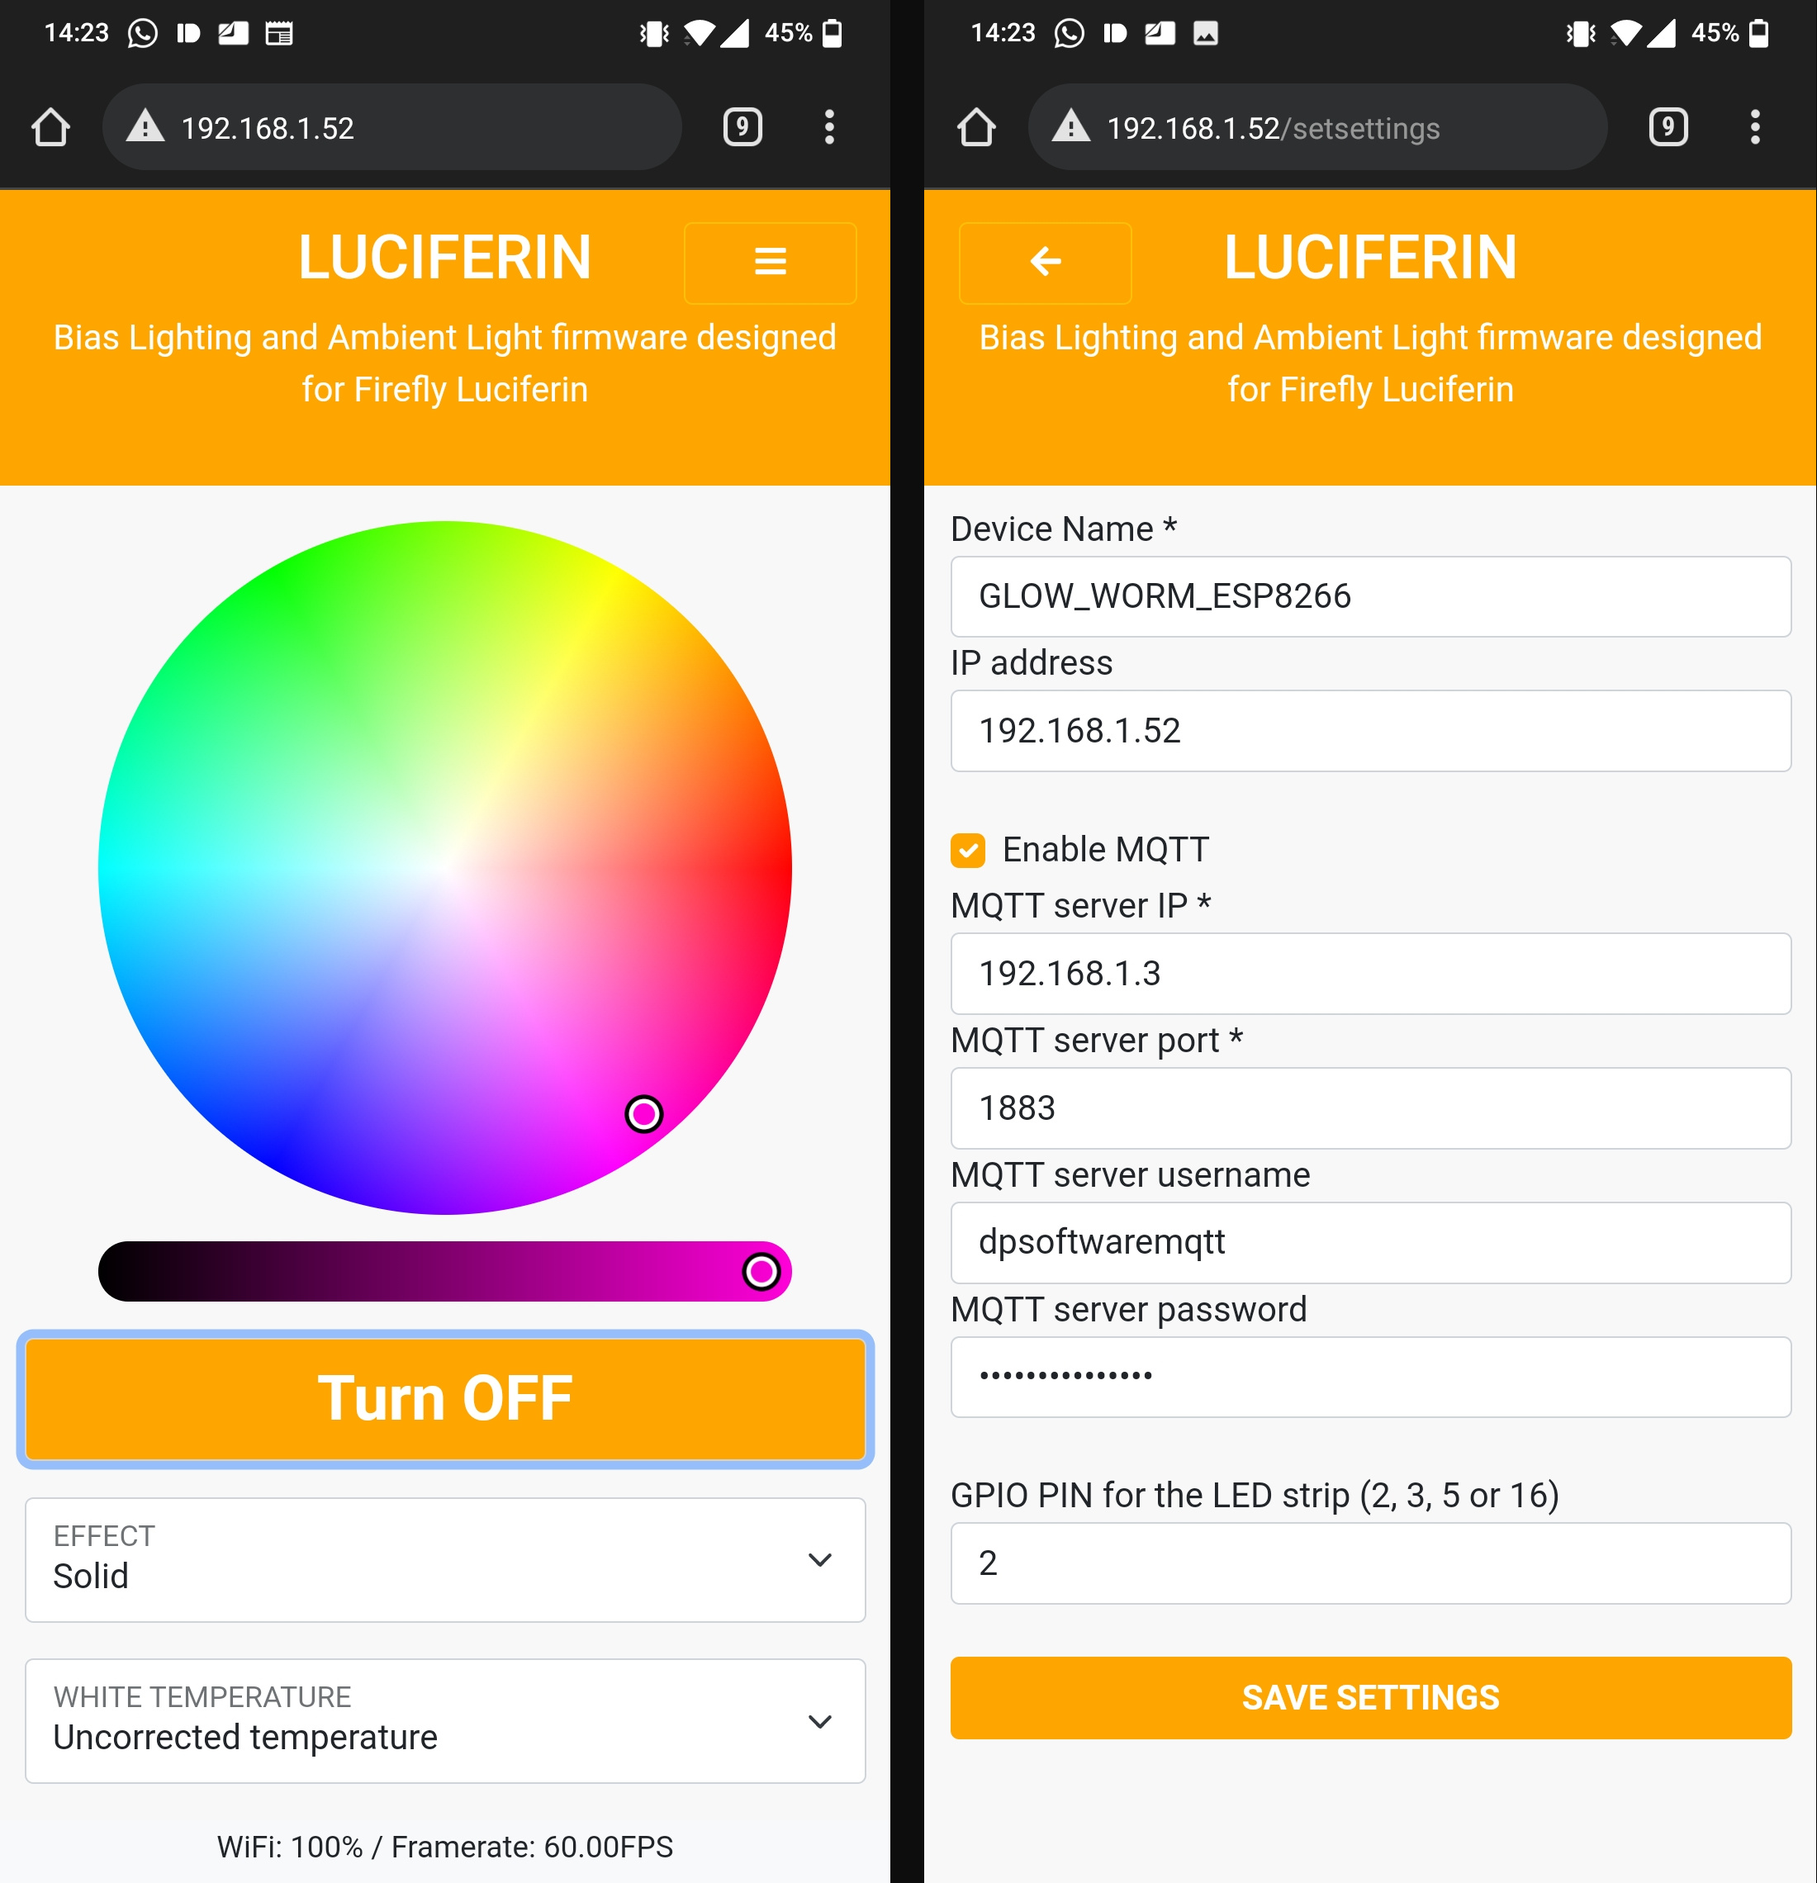
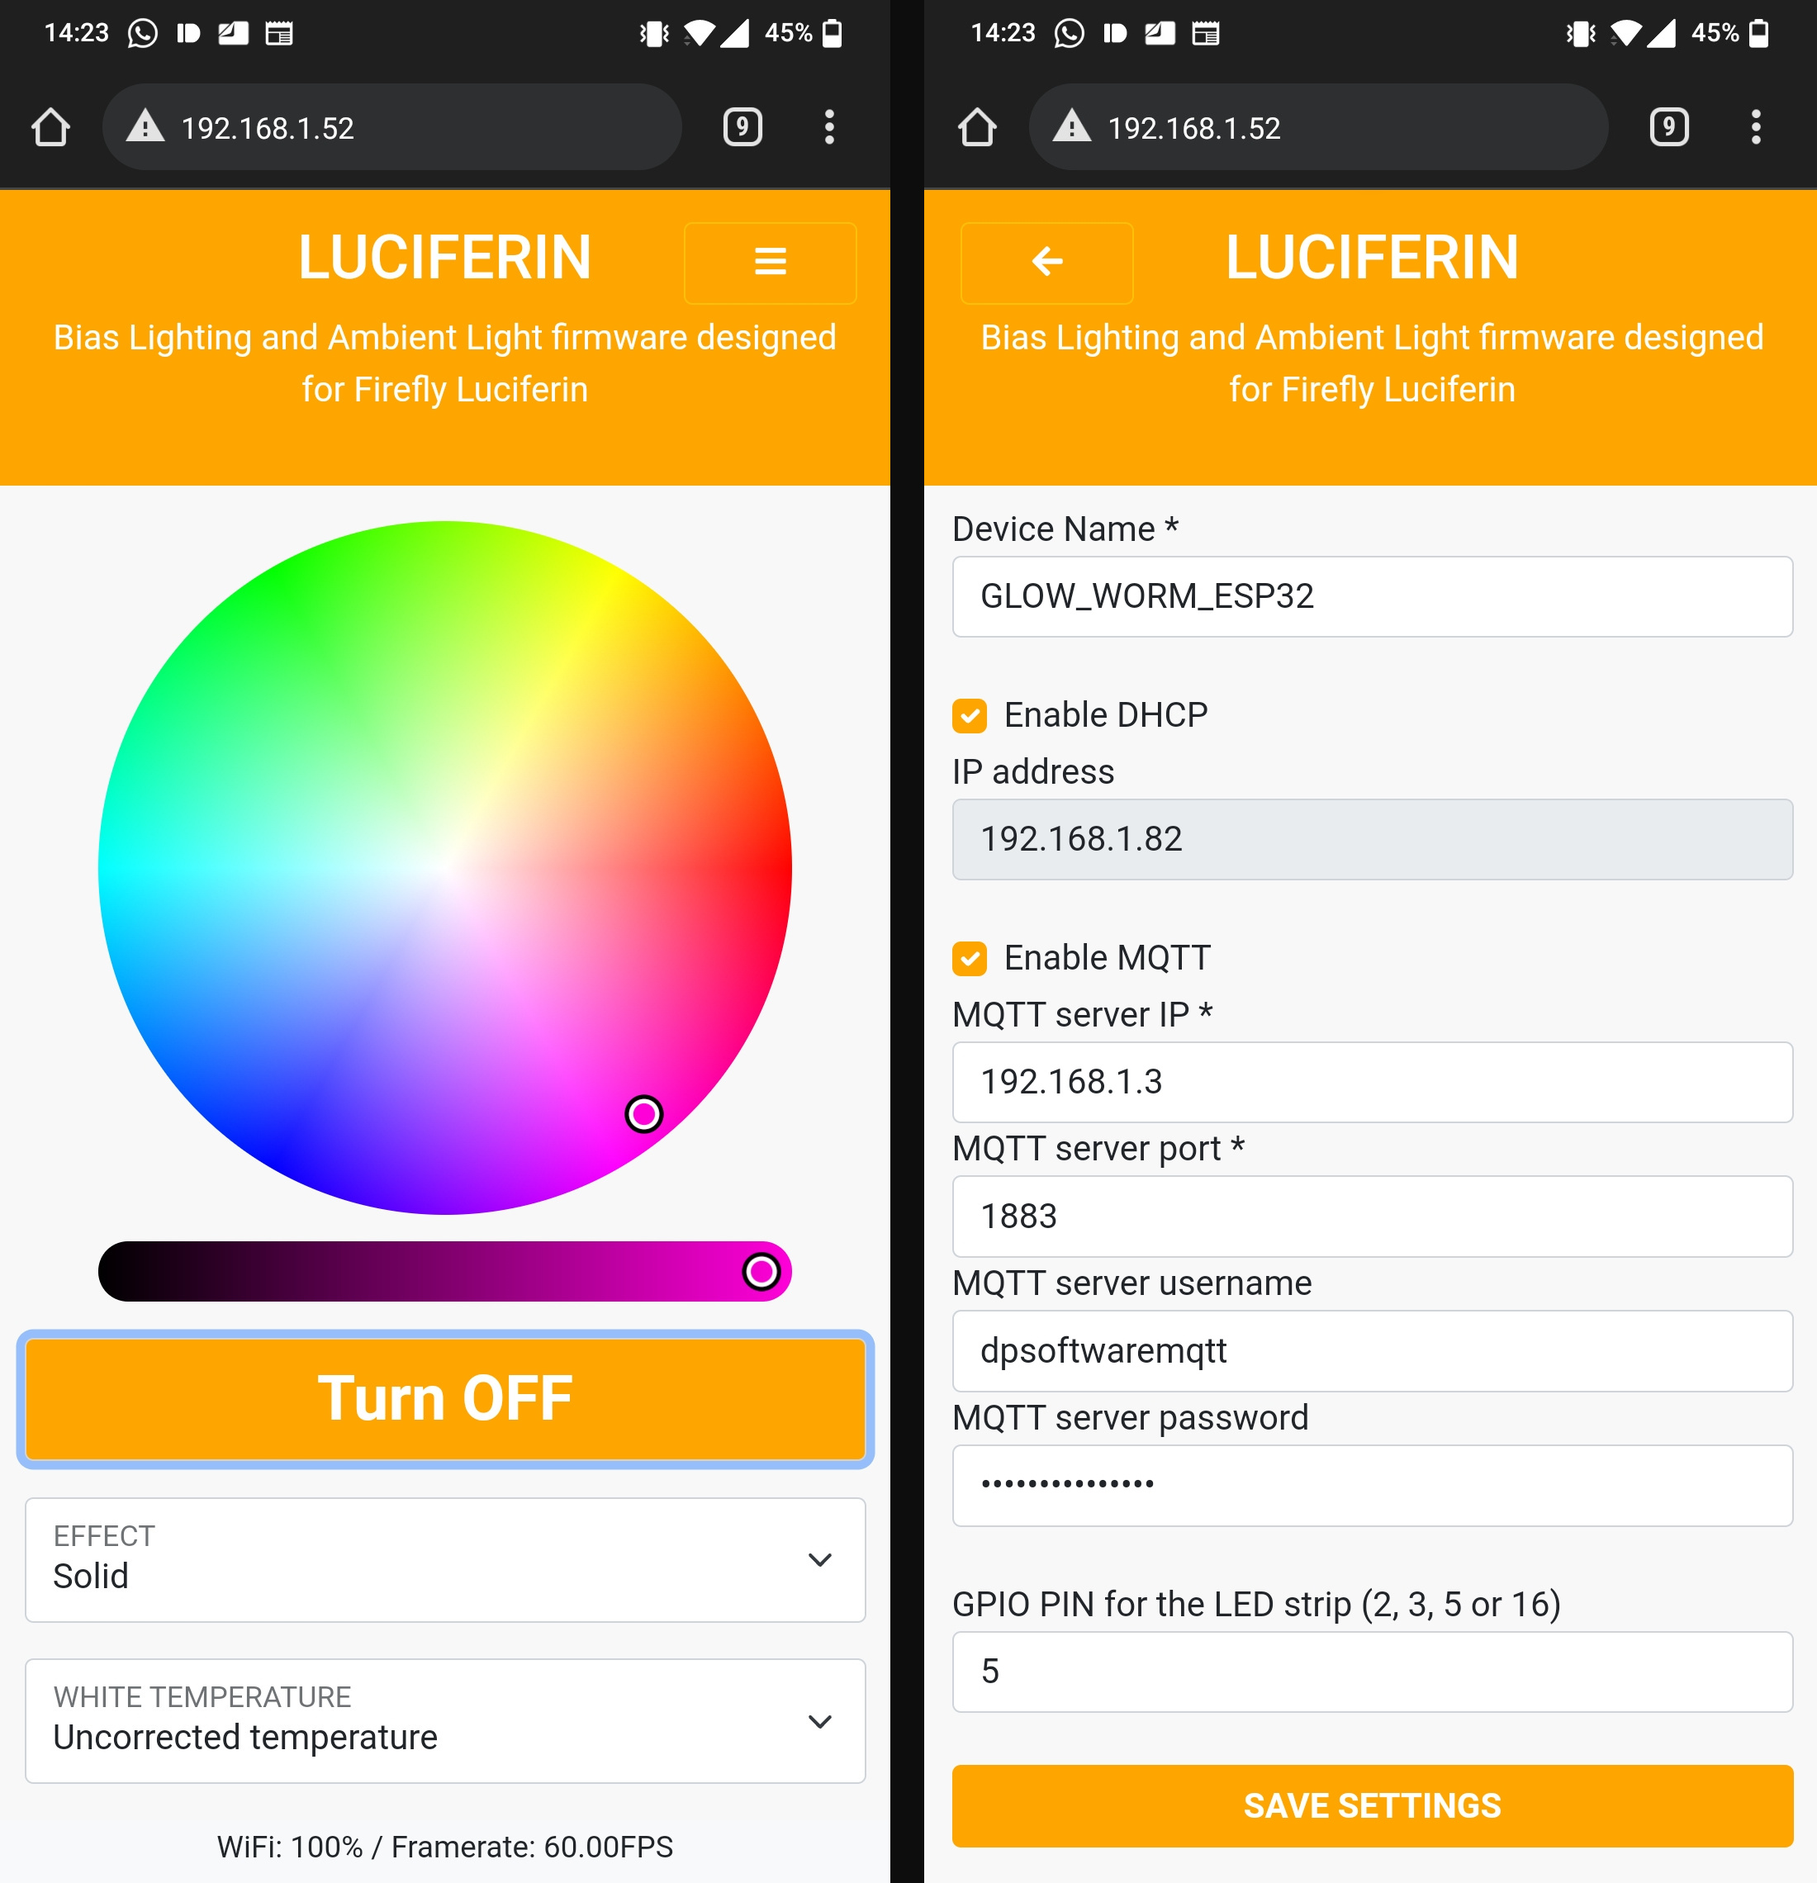
Web Interface improvements

diff --git a/docs/webInterfaceSettings.js b/docs/webInterfaceSettings.js
@@ -15,6 +15,11 @@ function poll() {
                 console.log(prefs);
                 $('#deviceName').val(prefs.deviceName);
                 $('#microcontrollerIP').val(prefs.ip);
+                if (prefs.dhcp == '1') {
+                    document.getElementById('microcontrollerIP').disabled = true;
+                } else {
+                    $("#dhcpCheckbox").click();
+                }
                 if (prefs.mqttIp.length == 0) {
                     $("#mqttCheckbox").click();
                 }
@@ -29,7 +34,7 @@ function poll() {
 }
 function callDevice() {
     let payload = "deviceName=" + $('#deviceName').val();
-    payload += "&microcontrollerIP=" + $('#microcontrollerIP').val();
+    payload += "&microcontrollerIP=" + ($("#dhcpCheckbox").prop("checked") ? '' : $('#microcontrollerIP').val());
     payload += "&mqttCheckbox=" + $("#mqttCheckbox").prop("checked");
     payload += "&mqttIP=" + $('#inputMqttIp').val();
     payload += "&mqttPort=" + $('#mqttPort').val();
@@ -42,13 +47,43 @@ function callDevice() {
     http.send();
     http.onload = () => {
         console.log(http.responseText);
-        alert("Success: rebooting the microcontroller");        
+        alert("Success: rebooting the microcontroller");
         return false;
     };
 }
+function mqttCheckboxAction(cbMqtt, cbDhcp) {
+    if (cbMqtt.checked) {
+        document.getElementById('inputMqttIp').setAttribute('required', '');
+        document.getElementById('mqttPort').setAttribute('required', '');
+        document.getElementById('inputMqttIp').disabled = false;
+        document.getElementById('mqttPort').disabled = false;
+        document.getElementById('mqttPort').disabled = false;
+        document.getElementById('mqttuser').disabled = false;
+        document.getElementById('mqttpass').disabled = false;
+        document.getElementById('inputMqttIp').disabled = false;
+    } else {
+        document.getElementById('inputMqttIp').removeAttribute('required');
+        document.getElementById('inputMqttIp').disabled = true;
+        document.getElementById('mqttPort').removeAttribute('required');
+        document.getElementById('mqttPort').disabled = true;
+        document.getElementById('mqttPort').value = "";
+        document.getElementById('mqttPort').disabled = true;
+        document.getElementById('mqttuser').value = "";
+        document.getElementById('mqttuser').disabled = true;
+        document.getElementById('mqttpass').value = "";
+        document.getElementById('mqttpass').disabled = true;
+        document.getElementById('inputMqttIp').value = "";
+        document.getElementById('inputMqttIp').disabled = true;
+    }
+    if (cbDhcp.checked) {
+        document.getElementById('microcontrollerIP').disabled = true;
+    } else {
+        document.getElementById('microcontrollerIP').disabled = false;
+    }
+}
 const sleep = (s) => {
-  return new Promise(resolve => setTimeout(resolve, (s)));
+    return new Promise(resolve => setTimeout(resolve, (s)));
 };
-sleep(200).then(() => {
-  poll();
+sleep(100).then(() => {
+    poll();
 });

diff --git a/docs/webInterface.js b/docs/webInterface.js
@@ -77,7 +77,7 @@ colorPicker.on(['input:end'], function(color) {
 const sleep = (s) => {
   return new Promise(resolve => setTimeout(resolve, (s)));
 };
-sleep(200).then(() => {
+sleep(100).then(() => {
   $('#effectSelect').append(new Option("Solid", "solid"));
   $('#effectSelect').append(new Option("Fire", "fire"));
   $('#effectSelect').append(new Option("Twinkle", "twinkle"));

diff --git a/include/WebSettings.h b/include/WebSettings.h
@@ -23,6 +23,6 @@
 
 const char settingsPage[] PROGMEM = R"=====(<!DOCTYPE html><html><head><title>LUCIFERIN Web Interface</title> <meta charset='utf-8'> <meta name='viewport' content='width=device-width, initial-scale=1'> <link rel="icon" type="image/png" href="https://sblantipodi.github.io/glow_worm_luciferin/static/logos/luciferin_logo.png"> <script src='https://sblantipodi.github.io/glow_worm_luciferin/third_party_scripts/jquery-3.6.0.slim.min.js' integrity='sha256-u7e5khyithlIdTpu22PHhENmPcRdFiHRjhAuHcs05RI=' crossorigin='anonymous'></script> <link href='https://sblantipodi.github.io/glow_worm_luciferin/third_party_scripts/bootstrap.min.css' rel='stylesheet'> <script src='https://sblantipodi.github.io/glow_worm_luciferin/third_party_scripts/bootstrap.bundle.min.js'></script> <script src='https://sblantipodi.github.io/glow_worm_luciferin/third_party_scripts/iro5_2_2.js'></script> <link href='https://sblantipodi.github.io/glow_worm_luciferin/webInterface.css' rel='stylesheet'> <link href='https://sblantipodi.github.io/glow_worm_luciferin/fa/css/all.css' rel='stylesheet'></head><body><div class='container-fluid p-3 bg-primary text-white text-center'><h1>LUCIFERIN</h1> <p>Bias Lighting and Ambient Light firmware designed for Firefly Luciferin </p></div><div class='container'> <div class='row'> <div class='col' style='margin-top: 2vw;'> <form> <button onclick="window.location.href='setsettings'" style="color:white; right: 1em; top: 1em; display: block; position: absolute; width: 5em" type="button" class="btn btn-outline-warning waves-effect px-3"><i class="fas fa-bars" aria-hidden="true"></i> </button> <div class='form-group row'> <div class='col-sm-12'> <div class='wrap'> <div id='picker'></div></div></div><div class='col-sm-12'> <button id='toggleLED' type='button' class='btn btn-primary' data-bs-toggle='button' autocomplete='off'>Turn ON </button> </div><div class='col-sm-12'> <div class='form-floating'> <select class='form-select' id='effectSelect'> </select> <label for='effectSelect'>EFFECT</label></div></div><div class='col-sm-12'> <div class='form-floating'><select class='form-select' id='whiteTempSelect'> </select> <label for='whiteTempSelect'>WHITE TEMPERATURE</label></div></div></div></form> </div></div></div><footer class='bg-light text-center text-lg-start'> <div class='text-center'><small> WiFi: <span id='wifi'>_</span>/ Framerate: <span id='fps'>_</span><br><a id='gitlink' class='text-dark' href='https://github.com/sblantipodi/'>_</a></small></div></footer><script src='https://sblantipodi.github.io/glow_worm_luciferin/webInterface.js'></script></body></html>)=====";
 
-const char setSettingsPage[] PROGMEM = R"=====(<!DOCTYPE html><html><head><title>LUCIFERIN Web Interface</title> <meta charset='utf-8'> <meta name='viewport' content='width=device-width, initial-scale=1'> <link rel="icon" type="image/png" href="https://sblantipodi.github.io/glow_worm_luciferin/static/logos/luciferin_logo.png"> <script src='https://sblantipodi.github.io/glow_worm_luciferin/third_party_scripts/jquery-3.6.0.slim.min.js' integrity='sha256-u7e5khyithlIdTpu22PHhENmPcRdFiHRjhAuHcs05RI=' crossorigin='anonymous'></script> <link href='https://sblantipodi.github.io/glow_worm_luciferin/third_party_scripts/bootstrap.min.css' rel='stylesheet'> <script src='https://sblantipodi.github.io/glow_worm_luciferin/third_party_scripts/bootstrap.bundle.min.js'></script> <script src='https://sblantipodi.github.io/glow_worm_luciferin/third_party_scripts/iro5_2_2.js'></script> <link href='https://sblantipodi.github.io/glow_worm_luciferin/webInterface.css' rel='stylesheet'> <link href='https://sblantipodi.github.io/glow_worm_luciferin/fa/css/all.css' rel='stylesheet'></head><body><div class='container-fluid p-3 bg-primary text-white text-center'><h1>LUCIFERIN</h1> <p>Bias Lighting and Ambient Light firmware designed for Firefly Luciferin </p></div><div class='container'> <div class='row'> <div class='col' style='margin-top: 2vw;'> <form onsubmit='callDevice(); return false;'> <div class="form-group"> <label for="deviceName">Device Name *</label> <input type="deviceName" class="form-control" id="deviceName" aria-describedby="deviceName" required> </div><div class="form-group"> <label for="microcontrollerIP">IP address</label> <input type="text" class="form-control" id="microcontrollerIP"> </div><br><div class="form-check"> <input type="checkbox" class="form-check-input" id="mqttCheckbox" checked> <label class="form-check-label" for="mqttCheckbox">Enable MQTT</label> </div><div id='mqttclass'> <div class="form-group"> <label for="inputMqttIp">MQTT server IP *</label> <input type="text" class="form-control" id="inputMqttIp"> </div><div class="form-group"> <label for="mqttPort">MQTT server port *</label> <input type="text" class="form-control" id="mqttPort"> </div><div class="form-group"> <label for="mqttuser">MQTT server username</label> <input type="text" class="form-control" id="mqttuser"> </div><div class="form-group"> <label for="mqttpass">MQTT server password</label> <input type="password" class="form-control" id="mqttpass"></div></div><br><div class="form-group"> <label for="additionalParam">GPIO PIN for the LED strip (2, 3, 5 or 16)</label> <input type="additionalParam" class="form-control" id="additionalParam"> </div><br><button type="submit" class="btn btn-primary" style="background-color: orange;border-color: orange;"> SAVE SETTINGS </button> <button onclick="window.location.href='/'" style="color:white; left: 1em; top: 1em; display: block; position: absolute; width: 5em;" type="button" class="btn btn-outline-warning waves-effect px-3"><i class="fas fa-arrow-left" aria-hidden="true"></i> </button> </form> </div></div></div><script src='https://sblantipodi.github.io/glow_worm_luciferin/webInterfaceSettings.js'></script><script>const cb=document.getElementById('mqttCheckbox'); const x=document.getElementById('mqttclass'); console.log(cb.checked); cb.onclick=()=>{if (cb.checked){x.style.display='block'; document.getElementById('inputMqttIp').setAttribute('required', ''); document.getElementById('mqttPort').setAttribute('required', '');}else{x.style.display='none'; document.getElementById('inputMqttIp').removeAttribute('required'); document.getElementById('mqttPort').removeAttribute('required'); document.getElementById('mqttPort').value=""; document.getElementById('mqttuser').value=""; document.getElementById('mqttpass').value=""; document.getElementById('inputMqttIp').value="";}}</script></body></html>)=====";
+const char setSettingsPage[] PROGMEM = R"=====(<!DOCTYPE html><html><head><title>LUCIFERIN Web Interface</title> <meta charset='utf-8'> <meta name='viewport' content='width=device-width, initial-scale=1'> <link rel="icon" type="image/png" href="https://sblantipodi.github.io/glow_worm_luciferin/static/logos/luciferin_logo.png"> <script src='https://sblantipodi.github.io/glow_worm_luciferin/third_party_scripts/jquery-3.6.0.slim.min.js' integrity='sha256-u7e5khyithlIdTpu22PHhENmPcRdFiHRjhAuHcs05RI=' crossorigin='anonymous'></script> <link href='https://sblantipodi.github.io/glow_worm_luciferin/third_party_scripts/bootstrap.min.css' rel='stylesheet'> <script src='https://sblantipodi.github.io/glow_worm_luciferin/third_party_scripts/bootstrap.bundle.min.js'></script> <script src='https://sblantipodi.github.io/glow_worm_luciferin/third_party_scripts/iro5_2_2.js'></script> <link href='https://sblantipodi.github.io/glow_worm_luciferin/webInterface.css' rel='stylesheet'> <link href='https://sblantipodi.github.io/glow_worm_luciferin/fa/css/all.css' rel='stylesheet'></head><body><div class='container-fluid p-3 bg-primary text-white text-center'><h1>LUCIFERIN</h1> <p>Bias Lighting and Ambient Light firmware designed for Firefly Luciferin </p></div><div class='container'> <div class='row'> <div class='col' style='margin-top: 2vw;'> <form onsubmit='callDevice(); return false;'> <div class="form-group"><label for="deviceName">Device Name *</label> <input type="deviceName" class="form-control" id="deviceName" aria-describedby="deviceName" required></div><br><div class="form-check"><input type="checkbox" class="form-check-input" id="dhcpCheckbox" checked> <label class="form-check-label" for="dhcpCheckbox">Enable DHCP</label></div><div id='dhcpclass'> <div class="form-group"><label for="microcontrollerIP">IP address</label> <input type="text" class="form-control" id="microcontrollerIP"> </div></div><br><div class="form-check"><input type="checkbox" class="form-check-input" id="mqttCheckbox" checked> <label class="form-check-label" for="mqttCheckbox">Enable MQTT</label></div><div id='mqttclass'> <div class="form-group"><label for="inputMqttIp">MQTT server IP *</label> <input type="text" class="form-control" id="inputMqttIp"> </div><div class="form-group"><label for="mqttPort">MQTT server port *</label> <input type="text" class="form-control" id="mqttPort"></div><div class="form-group"><label for="mqttuser">MQTT server username</label> <input type="text" class="form-control" id="mqttuser"> </div><div class="form-group"><label for="mqttpass">MQTT server password</label> <input type="password" class="form-control" id="mqttpass"> </div></div><br><div class="form-group"><label for="additionalParam">GPIO PIN for the LED strip (2, 3, 5 or 16)</label> <input type="additionalParam" class="form-control" id="additionalParam"></div><br><button type="submit" class="btn btn-primary" style="background-color: orange;border-color: orange;"> SAVE SETTINGS </button> <button onclick="window.location.href='/'" style="color:white; left: 1em; top: 1em; display: block; position: absolute; width: 5em;" type="button" class="btn btn-outline-warning waves-effect px-3"><i class="fas fa-arrow-left" aria-hidden="true"></i> </button> </form> </div></div></div><script src='https://sblantipodi.github.io/glow_worm_luciferin/webInterfaceSettings.js'></script><script>const cbMqtt=document.getElementById('mqttCheckbox'); const cbDhcp=document.getElementById('dhcpCheckbox');cbMqtt.onclick=()=>{mqttCheckboxAction(cbMqtt, cbDhcp);}cbDhcp.onclick=()=>{mqttCheckboxAction(cbMqtt, cbDhcp);}</script></body></html>)=====";
 
 #endif //GLOW_WORM_LUCIFERIN_WEBSETTINGS_H

diff --git a/src/GlowWormLuciferin.cpp b/src/GlowWormLuciferin.cpp
@@ -325,6 +325,8 @@ void listenOnHttpGet() {
   server.on(GET_SETTINGS, []() {
       prefsData = F("{\"deviceName\":\"");
       prefsData += deviceName;
+      prefsData += F("\",\"dhcp\":\"");
+      prefsData += dhcpInUse;
       prefsData += F("\",\"ip\":\"");
       prefsData += microcontrollerIP;
       prefsData += F("\",\"mqttuser\":\"");
